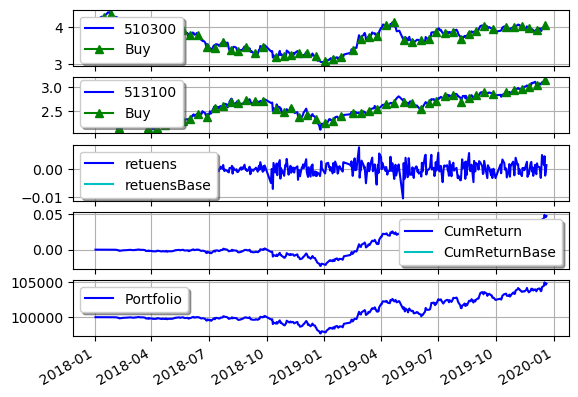
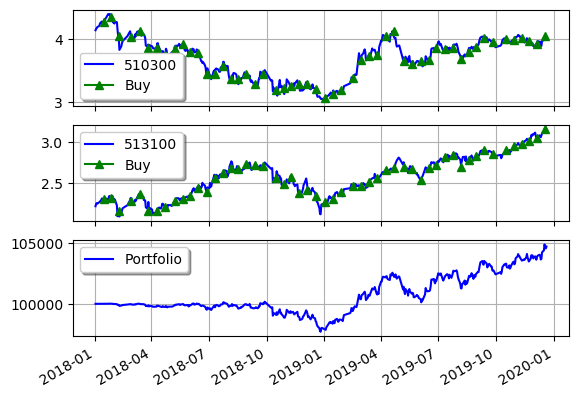
完成第四个笔记

Changed region(s): [[0.0, 0.0302, 0.9965, 0.8463]]

diff --git a/04/Backtesting.py b/04/Backtesting.py
@@ -23,12 +23,13 @@ from pandas.plotting import register_matplotlib_converters
 	feeRate: 手续费费率，默认为0.0003
 """
 class Backtesting():
-	def __init__(self, instrument, startYear, endYear, strategy, base = ["510300"], cash = 1000000, feeRate = 0.0003):
+	def __init__(self, instrument, startYear, endYear, strategy, base = "510300", cash = 1000000, feeRate = 0.0003):
 		self.__instrument = instrument
 		self.__startYear = startYear
 		self.__endYear = endYear
 		self.__strategy = strategy
-		self.__base = base
+		self.__base = []
+		self.__base.append(base)
 		self.__cash = cash
 		self.__feeRate = feeRate
 		# 要创建的内部变量
@@ -73,10 +74,10 @@ class Backtesting():
 	# 创建绘图器
 	def __createPlter(self):
 		self.__plter = plotter.StrategyPlotter(self.__strategyTest)
-		self.__plter.getOrCreateSubplot("return").addDataSeries("retuens", self.__return.getReturns())
-		self.__plter.getOrCreateSubplot("CumReturn").addDataSeries("CumReturn", self.__return.getCumulativeReturns())
-		self.__plter.getOrCreateSubplot("return").addDataSeries("retuensBase", self.__returnBase.getReturns())
-		self.__plter.getOrCreateSubplot("CumReturn").addDataSeries("CumReturnBase", self.__returnBase.getCumulativeReturns())
+		# self.__plter.getOrCreateSubplot("return").addDataSeries("retuens", self.__return.getReturns())
+		# self.__plter.getOrCreateSubplot("CumReturn").addDataSeries("CumReturn", self.__return.getCumulativeReturns())
+		# self.__plter.getOrCreateSubplot("return").addDataSeries("retuensBase", self.__returnBase.getReturns())
+		# self.__plter.getOrCreateSubplot("CumReturn").addDataSeries("CumReturnBase", self.__returnBase.getCumulativeReturns())
 		
 		
 	# 计算αβ信息比例等指标
